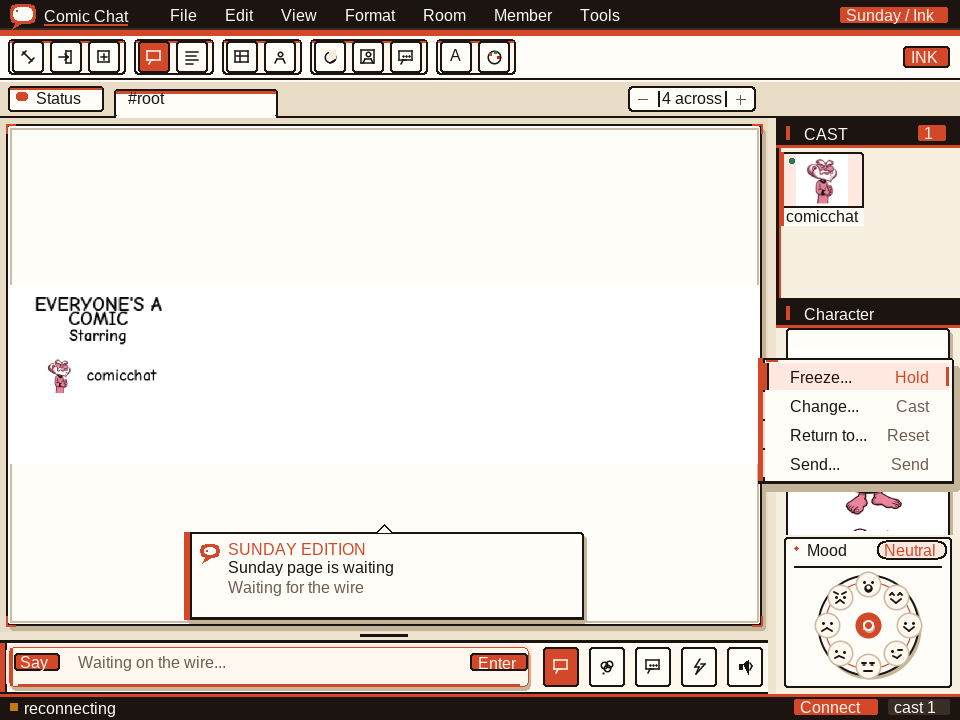
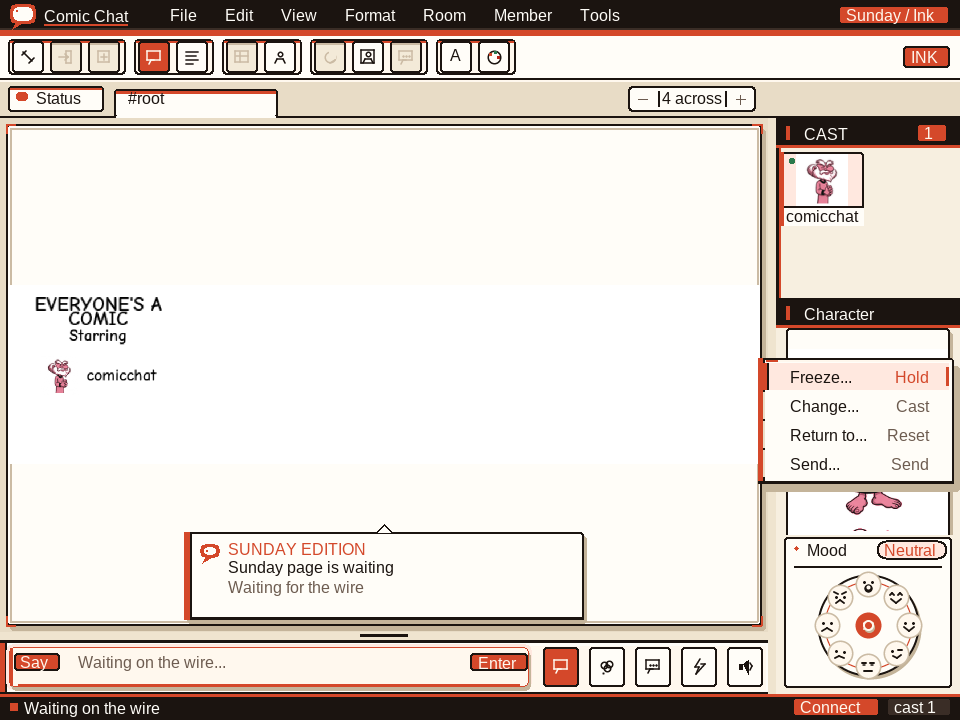
ui: refresh previews after leftover shell chrome
Capture the overflow, tooltip, dialog, and status chrome pass on the
committed Sunday preview surfaces.

diff --git a/.ai/tasks/CC-20260825-11.md b/.ai/tasks/CC-20260825-11.md
@@ -30,14 +30,14 @@ placement.
 
 ## Acceptance criteria
 
-- [ ] Toolbar, overflow, status, disabled, and dialog chrome have printed-Sunday tooltips or hints where a user would stall.
-- [ ] Focus rings exist for menus, dialogs, overflow, and fields without painting over composer top ink (`say.y+1, x=2`).
-- [ ] Disabled room/member/moderation chrome looks disabled and is skipped by keyboard.
-- [ ] Remaining dialogs have named primaries, helpers, and notices where empty/error.
-- [ ] Overflow rooms (`...`) have hover, tooltip, keyboard, and focus.
-- [ ] Composer/status leftover 90s-shell copy is gone.
-- [ ] CAST blit and page placement unchanged.
-- [ ] `zig fmt`, `zig build test`, `zig build -Dtarget=x86_64-linux`, `git diff --check` green.
+- [x] Toolbar, overflow, status, disabled, and dialog chrome have printed-Sunday tooltips or hints where a user would stall.
+- [x] Focus rings exist for menus, dialogs, overflow, and fields without painting over composer top ink (`say.y+1, x=2`).
+- [x] Disabled room/member/moderation chrome looks disabled and is skipped by keyboard.
+- [x] Remaining dialogs have named primaries, helpers, and notices where empty/error.
+- [x] Overflow rooms (`...`) have hover, tooltip, keyboard, and focus.
+- [x] Composer/status leftover 90s-shell copy is gone.
+- [x] CAST blit and page placement unchanged.
+- [x] `zig fmt`, `zig build test`, `zig build -Dtarget=x86_64-linux`, `git diff --check` green.
 
 ## Verification
 
@@ -54,8 +54,8 @@ placement.
 
 ## Handoff
 
-- Files changed:
-- Commands and outcomes:
-- Evidence:
-- Residual risk:
-- Recommendation: `accept | escalate | discard`
+- Files changed: `src/client/ui.zig`, `src/client/view.zig`, `src/client/dialogs.zig`, `.ai/tasks/CC-20260825-11.md`, committed preview PNGs
+- Commands and outcomes: `zig fmt`, `zig build test` green, `zig build -Dtarget=x86_64-linux` green, `git diff --check` clean
+- Evidence: overflow jump/hover/keyboard tests; toolbar skip when wire is dead; dialog titles/primaries pinned; CAST blit still `52×52` at `cell.y + 6`
+- Residual risk: none for this chrome pass
+- Recommendation: `accept`
